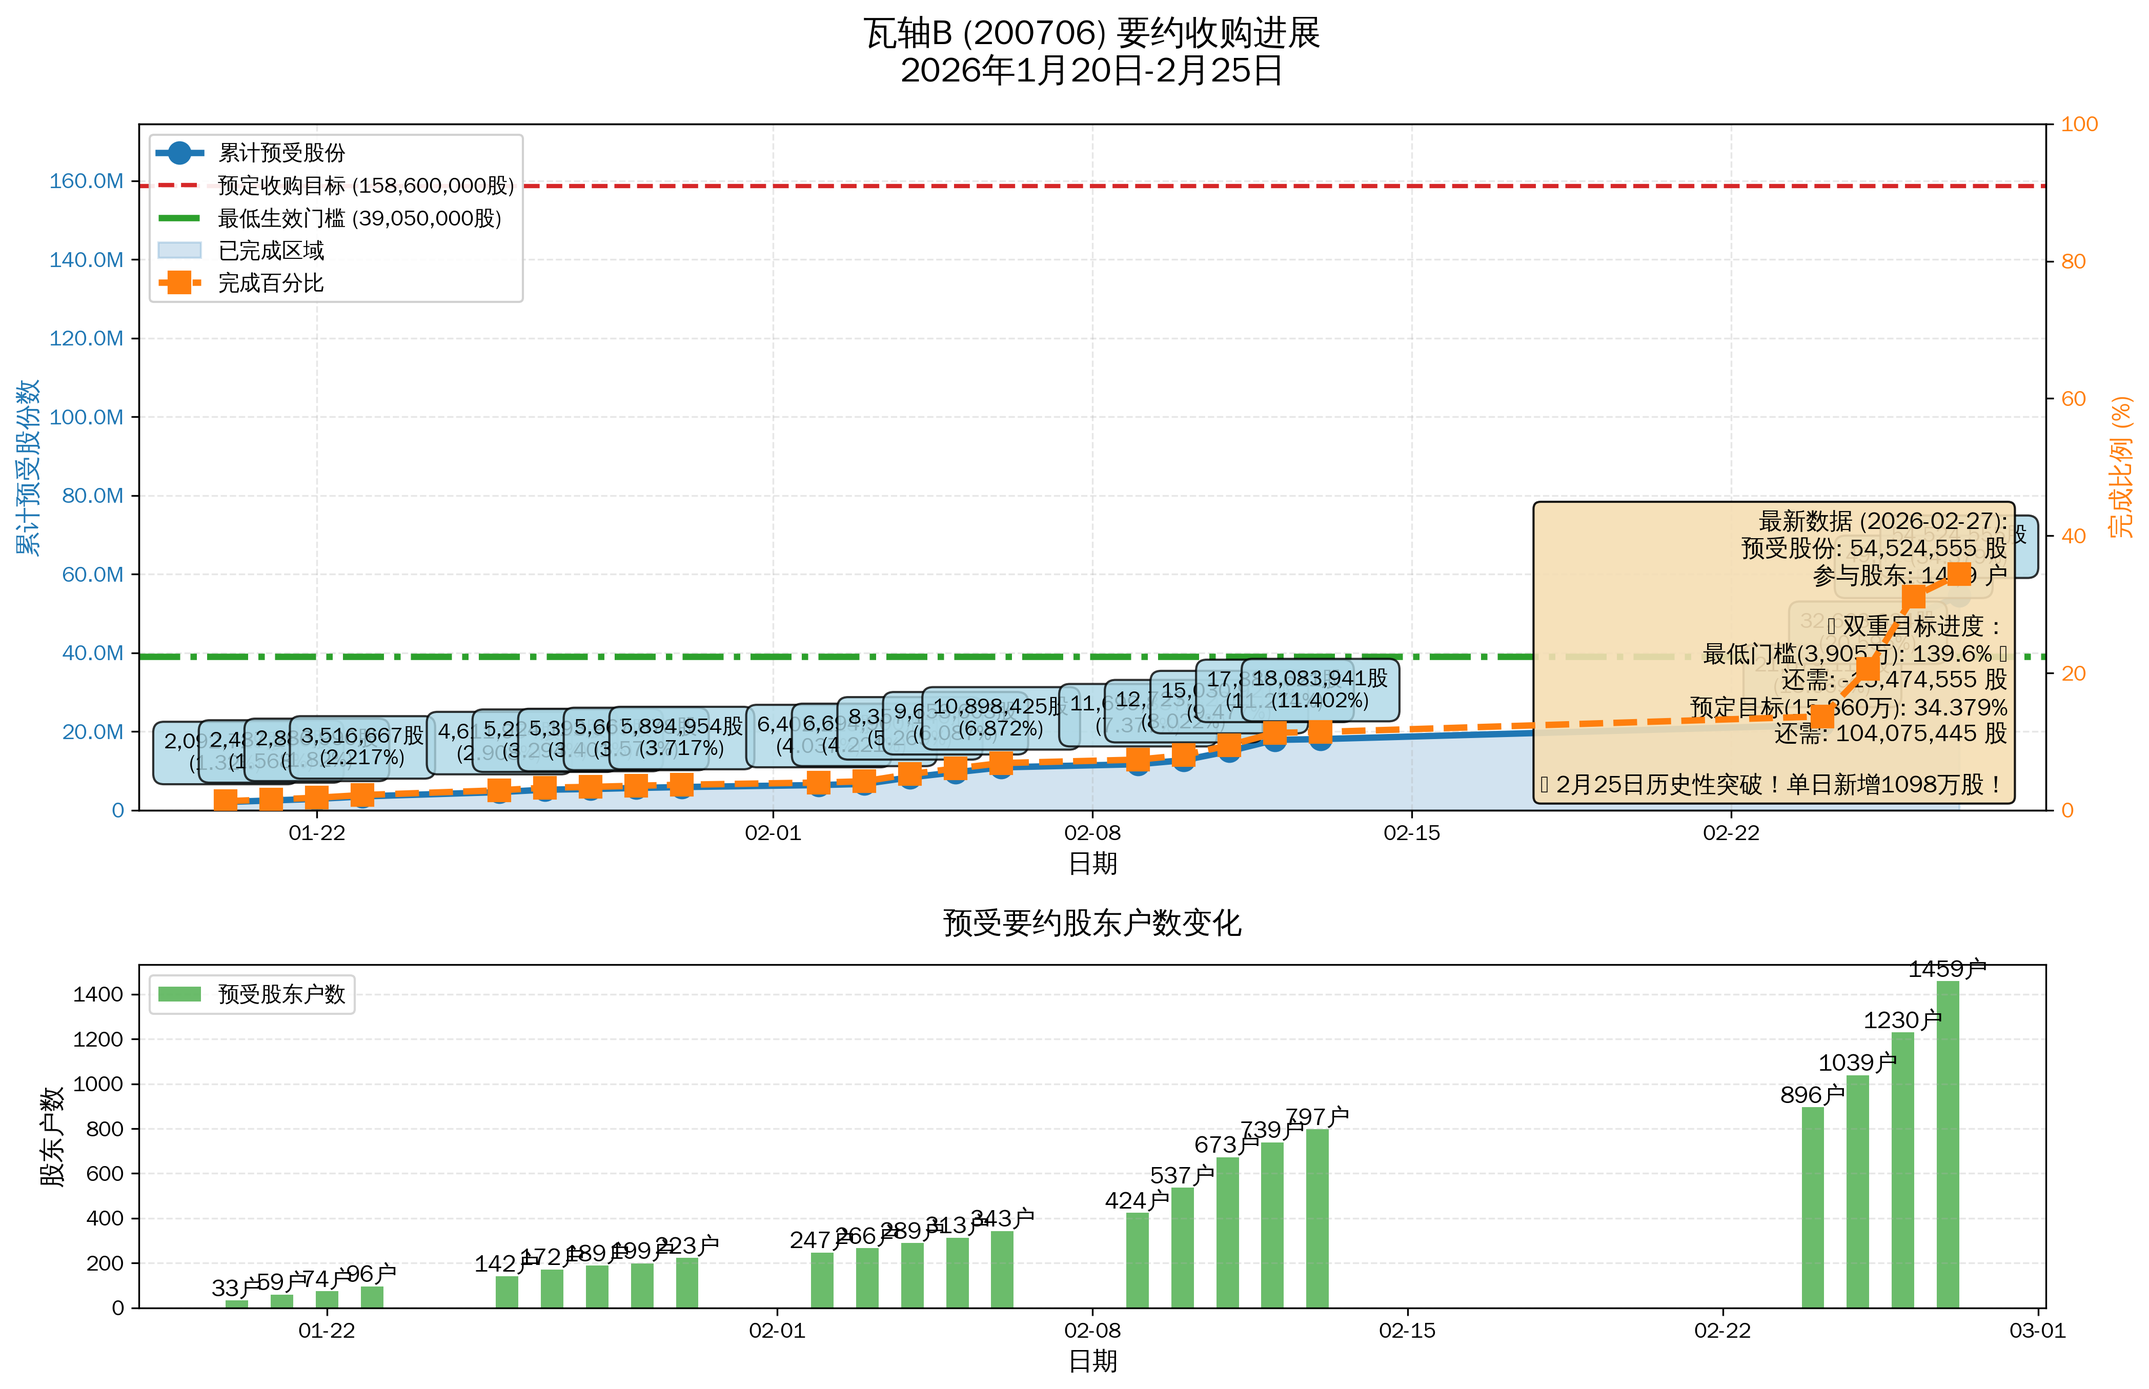
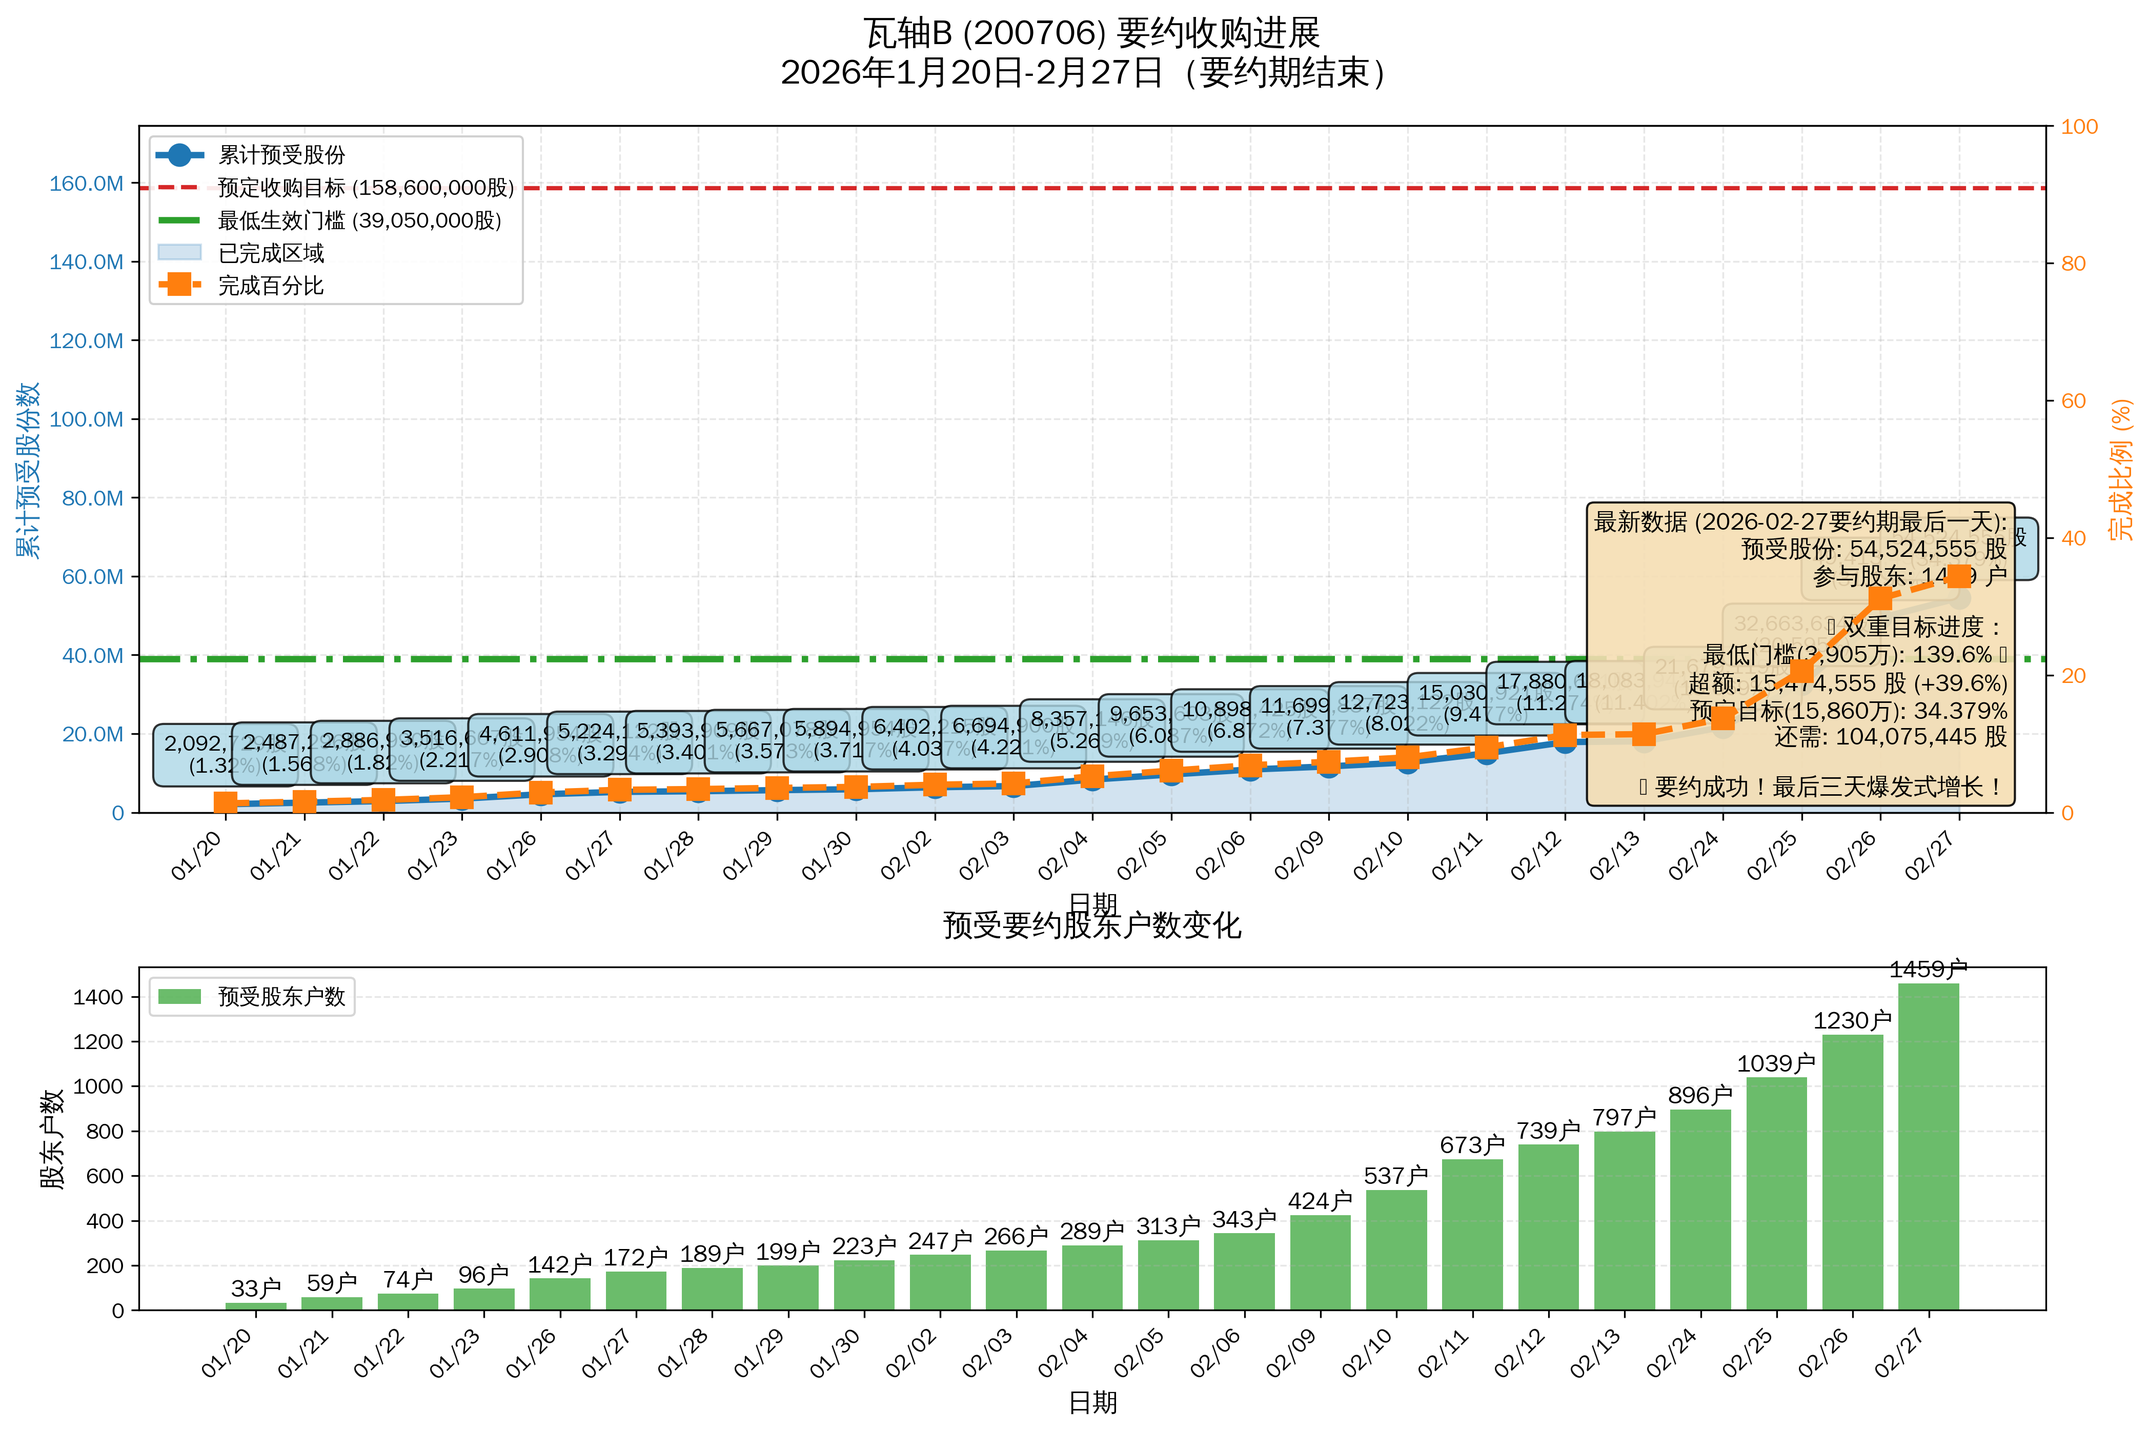
Fix chart x-axes to display continuous dates without gaps
Modified all three chart generation scripts to use integer indices for x-axis positioning instead of datetime objects. This ensures dates appear as a continuous sequence without gaps for non-trading days and holidays (Spring Festival break).

Changes:
- Use x_indices = list(range(len(dates))) for plotting
- Convert date_objects to date_labels for display
- Apply labels with set_xticks() and set_xticklabels()
- Regenerated all three chart images with continuous x-axes

https://claude.ai/code/session_01CWG5mG3t5tWDBynDURhsTs

diff --git a/14_Wazhou_B_Tender_Offer/generate_volume_turnover_chart.py b/14_Wazhou_B_Tender_Offer/generate_volume_turnover_chart.py
@@ -166,8 +166,12 @@ closing_prices = [
     2.800,  # 2026-02-27 (继续上涨)
 ]
 
-# Convert date format
+# Convert date format for labels
 date_objects = [datetime.strptime(d, '%Y-%m-%d') for d in dates]
+date_labels = [d.strftime('%m/%d') for d in date_objects]
+
+# Use integer indices for x-axis
+x_indices = list(range(len(dates)))
 
 # Create figure with multiple subplots
 fig = plt.figure(figsize=(16, 12))
@@ -175,46 +179,49 @@ gs = fig.add_gridspec(3, 2, hspace=0.3, wspace=0.3)
 
 # ===== Subplot 1: Trading Volume (Shares) =====
 ax1 = fig.add_subplot(gs[0, :])
-bars1 = ax1.bar(date_objects, volume_shares, width=0.6, color='steelblue', alpha=0.7, label='成交量 (股)')
+bars1 = ax1.bar(x_indices, volume_shares, width=0.8, color='steelblue', alpha=0.7, label='成交量 (股)')
 
 # Add value labels on bars
-for i, (date, vol) in enumerate(zip(date_objects, volume_shares)):
-    ax1.text(date, vol + 10000, f'{vol:,}股\n({volume_lots[i]:,}手)',
+for i, vol in enumerate(volume_shares):
+    ax1.text(i, vol + 10000, f'{vol:,}股\n({volume_lots[i]:,}手)',
              ha='center', va='bottom', fontsize=11, fontweight='bold')
 
 ax1.set_ylabel('成交量 (股)', fontsize=12, fontweight='bold')
 ax1.set_title('瓦轴B (200706) 每日成交量', fontsize=14, fontweight='bold', pad=15)
-ax1.xaxis.set_major_formatter(mdates.DateFormatter('%m-%d'))
+ax1.set_xticks(x_indices)
+ax1.set_xticklabels(date_labels, rotation=45, ha='right')
 ax1.grid(True, alpha=0.3, axis='y', linestyle='--')
 ax1.legend(loc='upper right', fontsize=10)
 
 # ===== Subplot 2: Trading Amount =====
 ax2 = fig.add_subplot(gs[1, 0])
-bars2 = ax2.bar(date_objects, trading_amount, width=0.6, color='orange', alpha=0.7, label='成交金额 (万港元)')
+bars2 = ax2.bar(x_indices, trading_amount, width=0.8, color='orange', alpha=0.7, label='成交金额 (万港元)')
 
 # Add value labels on bars
-for i, (date, amount) in enumerate(zip(date_objects, trading_amount)):
-    ax2.text(date, amount + 5, f'{amount:.2f}万\n港元',
+for i, amount in enumerate(trading_amount):
+    ax2.text(i, amount + 5, f'{amount:.2f}万\n港元',
              ha='center', va='bottom', fontsize=10, fontweight='bold')
 
 ax2.set_ylabel('成交金额 (万港元)', fontsize=12, fontweight='bold')
 ax2.set_title('每日成交金额', fontsize=14, fontweight='bold', pad=15)
-ax2.xaxis.set_major_formatter(mdates.DateFormatter('%m-%d'))
+ax2.set_xticks(x_indices)
+ax2.set_xticklabels(date_labels, rotation=45, ha='right')
 ax2.grid(True, alpha=0.3, axis='y', linestyle='--')
 ax2.legend(loc='upper right', fontsize=10)
 
 # ===== Subplot 3: Turnover Rate =====
 ax3 = fig.add_subplot(gs[1, 1])
-bars3 = ax3.bar(date_objects, turnover_rate, width=0.6, color='green', alpha=0.7, label='换手率 (%)')
+bars3 = ax3.bar(x_indices, turnover_rate, width=0.8, color='green', alpha=0.7, label='换手率 (%)')
 
 # Add value labels on bars
-for i, (date, rate) in enumerate(zip(date_objects, turnover_rate)):
-    ax3.text(date, rate + 0.01, f'{rate:.2f}%',
+for i, rate in enumerate(turnover_rate):
+    ax3.text(i, rate + 0.01, f'{rate:.2f}%',
              ha='center', va='bottom', fontsize=10, fontweight='bold')
 
 ax3.set_ylabel('换手率 (%)', fontsize=12, fontweight='bold')
 ax3.set_title('每日换手率', fontsize=14, fontweight='bold', pad=15)
-ax3.xaxis.set_major_formatter(mdates.DateFormatter('%m-%d'))
+ax3.set_xticks(x_indices)
+ax3.set_xticklabels(date_labels, rotation=45, ha='right')
 ax3.grid(True, alpha=0.3, axis='y', linestyle='--')
 ax3.legend(loc='upper right', fontsize=10)
 
@@ -223,21 +230,21 @@ ax4 = fig.add_subplot(gs[2, :])
 ax4_twin = ax4.twinx()
 
 # Bar chart for volume
-bars4 = ax4.bar(date_objects, volume_lots, width=0.6, color='skyblue', alpha=0.6, label='成交量 (手)')
+bars4 = ax4.bar(x_indices, volume_lots, width=0.8, color='skyblue', alpha=0.6, label='成交量 (手)')
 
 # Line chart for price change
-line4 = ax4_twin.plot(date_objects, price_change, color='red', linewidth=3,
+line4 = ax4_twin.plot(x_indices, price_change, color='red', linewidth=3,
                       marker='o', markersize=10, label='涨跌幅 (%)')
 ax4_twin.axhline(y=0, color='gray', linestyle='--', linewidth=1, alpha=0.5)
 
 # Add value labels
-for i, (date, vol, change) in enumerate(zip(date_objects, volume_lots, price_change)):
+for i, (vol, change) in enumerate(zip(volume_lots, price_change)):
     # Volume label
-    ax4.text(date, vol + 100, f'{vol:,}',
+    ax4.text(i, vol + 100, f'{vol:,}',
              ha='center', va='bottom', fontsize=9, color='blue')
     # Price change label
     color = 'red' if change < 0 else 'green' if change > 0 else 'gray'
-    ax4_twin.text(date, change + 0.05, f'{change:+.2f}%',
+    ax4_twin.text(i, change + 0.05, f'{change:+.2f}%',
                  ha='center', va='bottom', fontsize=10, fontweight='bold', color=color,
                  bbox=dict(boxstyle='round,pad=0.3', facecolor='white', alpha=0.8))
 
@@ -248,7 +255,8 @@ ax4.tick_params(axis='y', labelcolor='blue')
 ax4_twin.tick_params(axis='y', labelcolor='red')
 
 ax4.set_title('成交量与价格涨跌幅关联分析', fontsize=14, fontweight='bold', pad=15)
-ax4.xaxis.set_major_formatter(mdates.DateFormatter('%m-%d'))
+ax4.set_xticks(x_indices)
+ax4.set_xticklabels(date_labels, rotation=45, ha='right')
 ax4.grid(True, alpha=0.3, axis='y', linestyle='--')
 
 # Merge legends

diff --git a/14_Wazhou_B_Tender_Offer/generate_tender_progress_chart.py b/14_Wazhou_B_Tender_Offer/generate_tender_progress_chart.py
@@ -109,8 +109,12 @@ shareholders = [
     1459,      # 2026-02-27 (1459户! 确认成功!)
 ]
 
-# Convert date format
+# Convert date format for labels
 date_objects = [datetime.strptime(d, '%Y-%m-%d') for d in dates]
+date_labels = [d.strftime('%m/%d') for d in date_objects]
+
+# Use integer indices for x-axis to ensure continuity
+x_indices = list(range(len(dates)))
 
 # Target shares (预定收购股份数 vs 最低生效门槛)
 target_shares = 158600000  # 预定收购目标
@@ -131,7 +135,7 @@ color_target = '#d62728'
 
 # Left axis - Shares
 ax1.set_ylabel('累计预受股份数', color=color_shares, fontsize=12, fontweight='bold')
-line1 = ax1.plot(date_objects, cumulative_shares, color=color_shares,
+line1 = ax1.plot(x_indices, cumulative_shares, color=color_shares,
                  linewidth=3, marker='o', markersize=10,
                  label='累计预受股份', zorder=3)
 ax1.tick_params(axis='y', labelcolor=color_shares)
@@ -146,12 +150,12 @@ line_minimum = ax1.axhline(y=minimum_threshold, color='#2ca02c',
                            label=f'最低生效门槛 ({minimum_threshold:,}股)', zorder=2)
 
 # Fill area - Completed portion
-ax1.fill_between(date_objects, 0, cumulative_shares,
+ax1.fill_between(x_indices, 0, cumulative_shares,
                  alpha=0.2, color=color_shares, label='已完成区域')
 
 # Right axis - Completion ratio
 ax1_right.set_ylabel('完成比例 (%)', color=color_ratio, fontsize=12, fontweight='bold')
-line2 = ax1_right.plot(date_objects, completion_ratio, color=color_ratio,
+line2 = ax1_right.plot(x_indices, completion_ratio, color=color_ratio,
                        linewidth=3, marker='s', markersize=10,
                        label='完成百分比', linestyle='--', zorder=3)
 ax1_right.tick_params(axis='y', labelcolor=color_ratio)
@@ -171,10 +175,10 @@ def shares_formatter(x, pos):
 ax1.yaxis.set_major_formatter(plt.FuncFormatter(shares_formatter))
 
 # Add data labels
-for i, (date, shares, ratio) in enumerate(zip(date_objects, cumulative_shares, completion_ratio)):
+for i, (shares, ratio) in enumerate(zip(cumulative_shares, completion_ratio)):
     # Shares label
     ax1.annotate(f'{shares:,}股\n({ratio}%)',
-                xy=(date, shares),
+                xy=(i, shares),
                 xytext=(0, 15),
                 textcoords='offset points',
                 ha='center',
@@ -182,12 +186,13 @@ for i, (date, shares, ratio) in enumerate(zip(date_objects, cumulative_shares, c
                 fontweight='bold',
                 bbox=dict(boxstyle='round,pad=0.5', facecolor='lightblue', alpha=0.8))
 
-# Format x-axis dates
-ax1.xaxis.set_major_formatter(mdates.DateFormatter('%m-%d'))
+# Set x-axis ticks and labels
+ax1.set_xticks(x_indices)
+ax1.set_xticklabels(date_labels, rotation=45, ha='right')
 ax1.set_xlabel('日期', fontsize=12, fontweight='bold')
 
 # Title
-ax1.set_title('瓦轴B (200706) 要约收购进展\n2026年1月20日-2月25日',
+ax1.set_title('瓦轴B (200706) 要约收购进展\n2026年1月20日-2月27日（要约期结束）',
               fontsize=16, fontweight='bold', pad=20)
 
 # Merge legends
@@ -200,16 +205,17 @@ ax1.legend(lines1 + lines2, labels1 + labels2,
 ax2 = fig.add_subplot(gs[1])
 
 # Bar chart for shareholders
-bars = ax2.bar(date_objects, shareholders, width=0.5, color='#2ca02c', alpha=0.7, label='预受股东户数')
+bars = ax2.bar(x_indices, shareholders, width=0.8, color='#2ca02c', alpha=0.7, label='预受股东户数')
 
 # Add value labels on bars
-for i, (date, count) in enumerate(zip(date_objects, shareholders)):
-    ax2.text(date, count + 1, f'{count}户', ha='center', va='bottom', fontsize=11, fontweight='bold')
+for i, count in enumerate(shareholders):
+    ax2.text(i, count + 10, f'{count}户', ha='center', va='bottom', fontsize=11, fontweight='bold')
 
 # Format axes
 ax2.set_ylabel('股东户数', fontsize=12, fontweight='bold')
 ax2.set_xlabel('日期', fontsize=12, fontweight='bold')
-ax2.xaxis.set_major_formatter(mdates.DateFormatter('%m-%d'))
+ax2.set_xticks(x_indices)
+ax2.set_xticklabels(date_labels, rotation=45, ha='right')
 ax2.grid(True, alpha=0.3, axis='y', linestyle='--')
 ax2.legend(loc='upper left', fontsize=10)
 
@@ -218,20 +224,20 @@ ax2.set_title('预受要约股东户数变化', fontsize=14, fontweight='bold', 
 
 # Calculate progress vs minimum threshold
 progress_vs_minimum = (cumulative_shares[-1] / minimum_threshold) * 100
-remaining_for_minimum = minimum_threshold - cumulative_shares[-1]
+remaining_vs_minimum = cumulative_shares[-1] - minimum_threshold
 
 # Add statistics text box
-stats_text = f'''最新数据 ({dates[-1]}):
+stats_text = f'''最新数据 ({dates[-1]}要约期最后一天):
 预受股份: {cumulative_shares[-1]:,} 股
 参与股东: {shareholders[-1]} 户
 
 📊 双重目标进度：
 最低门槛(3,905万): {progress_vs_minimum:.1f}% ✅
-  还需: {remaining_for_minimum:,} 股
+  超额: {remaining_vs_minimum:,} 股 (+{(progress_vs_minimum-100):.1f}%)
 预定目标(15,860万): {completion_ratio[-1]}%
   还需: {target_shares - cumulative_shares[-1]:,} 股
 
-🚀 2月25日历史性突破！单日新增1098万股！'''
+🎉 要约成功！最后三天爆发式增长！'''
 
 props = dict(boxstyle='round', facecolor='wheat', alpha=0.9)
 ax1.text(0.98, 0.02, stats_text, transform=ax1.transAxes,

diff --git a/14_Wazhou_B_Tender_Offer/generate_price_vs_shares_chart.py b/14_Wazhou_B_Tender_Offer/generate_price_vs_shares_chart.py
@@ -193,32 +193,36 @@ cumulative_shares = [
 # Tender offer price reference line
 tender_offer_price = 2.86
 
-# Convert date format
+# Convert date format for labels
 date_objects = [datetime.strptime(d, '%Y-%m-%d') for d in dates]
+date_labels = [d.strftime('%m/%d') for d in date_objects]
+
+# Use integer indices for x-axis
+x_indices = list(range(len(dates)))
 
 # Create figure and axes
 fig, ax1 = plt.subplots(figsize=(16, 9))
 ax2 = ax1.twinx()
 
 # Plot stock closing price on left axis
-line1 = ax1.plot(date_objects, closing_prices, 'b-', linewidth=3, marker='o',
+line1 = ax1.plot(x_indices, closing_prices, 'b-', linewidth=3, marker='o',
                  markersize=10, label='收盘价')
 # Plot high and low prices
-ax1.fill_between(date_objects, low_prices, high_prices, alpha=0.2, color='blue', label='价格区间 (最高-最低)')
+ax1.fill_between(x_indices, low_prices, high_prices, alpha=0.2, color='blue', label='价格区间 (最高-最低)')
 
 # Add tender offer price reference line
 line_tender = ax1.axhline(y=tender_offer_price, color='r', linestyle='--',
                           linewidth=2.5, alpha=0.8, label=f'要约收购价 ({tender_offer_price} 港元)')
 
 # Plot completion ratio on right axis
-line2 = ax2.plot(date_objects, completion_ratio, 'g-', linewidth=3, marker='s',
+line2 = ax2.plot(x_indices, completion_ratio, 'g-', linewidth=3, marker='s',
                  markersize=10, label='完成比例')
 
 # Add data labels for stock price
-for i in range(len(date_objects)):
+for i in range(len(x_indices)):
     # Closing price label
     ax1.annotate(f'{closing_prices[i]:.3f} 港元',
-                xy=(date_objects[i], closing_prices[i]),
+                xy=(i, closing_prices[i]),
                 xytext=(0, -25),
                 textcoords='offset points',
                 ha='center',
@@ -228,9 +232,9 @@ for i in range(len(date_objects)):
                 bbox=dict(boxstyle='round,pad=0.4', facecolor='lightblue', alpha=0.8, edgecolor='blue'))
 
 # Add data labels for completion ratio
-for i in range(len(date_objects)):
+for i in range(len(x_indices)):
     ax2.annotate(f'{completion_ratio[i]:.2f}%\n{cumulative_shares[i]:,}股',
-                xy=(date_objects[i], completion_ratio[i]),
+                xy=(i, completion_ratio[i]),
                 xytext=(0, 15),
                 textcoords='offset points',
                 ha='center',
@@ -238,6 +242,10 @@ for i in range(len(date_objects)):
                 fontweight='bold',
                 color='green',
                 bbox=dict(boxstyle='round,pad=0.4', facecolor='lightgreen', alpha=0.8, edgecolor='green'))
+
+# Set x-axis ticks and labels
+ax1.set_xticks(x_indices)
+ax1.set_xticklabels(date_labels, rotation=45, ha='right')
 
 # Set labels
 ax1.set_xlabel('日期', fontsize=12, fontweight='bold')
@@ -250,7 +258,7 @@ ax2.tick_params(axis='y', labelcolor='g')
 
 # Set y-axis limits
 ax1.set_ylim([2.70, 2.90])
-ax2.set_ylim([0, 25])
+ax2.set_ylim([0, 40])
 
 # Format y-axis for percentage
 def percentage_formatter(x, pos):
@@ -259,21 +267,19 @@ ax2.yaxis.set_major_formatter(plt.FuncFormatter(percentage_formatter))
 
 # Format x-axis dates
 ax1.xaxis.set_major_formatter(mdates.DateFormatter('%m-%d'))
-plt.setp(ax1.xaxis.get_majorticklabels(), rotation=0, ha='center')
-
 # Add annotation for price discount to tender offer price
 latest_price = closing_prices[-1]
 discount = (tender_offer_price - latest_price) / tender_offer_price * 100
 ax1.annotate(f'较要约价折价: {discount:.2f}%',
-             xy=(date_objects[-1], latest_price),
-             xytext=(date_objects[-1], 2.82),
+             xy=(len(x_indices)-1, latest_price),
+             xytext=(len(x_indices)-1, 2.82),
              bbox=dict(boxstyle='round,pad=0.5', facecolor='yellow', alpha=0.9),
              arrowprops=dict(arrowstyle='->', connectionstyle='arc3,rad=0.2',
                            color='red', lw=2),
              fontsize=11, fontweight='bold', ha='center')
 
 # Title
-plt.title('瓦轴B (200706) 股价走势与要约收购进展对比\n2026年1月20日-2月26日',
+plt.title('瓦轴B (200706) 股价走势与要约收购进展对比\n2026年1月20日-2月27日（要约期结束）',
           fontsize=16, fontweight='bold', pad=20)
 
 # Merge legends
